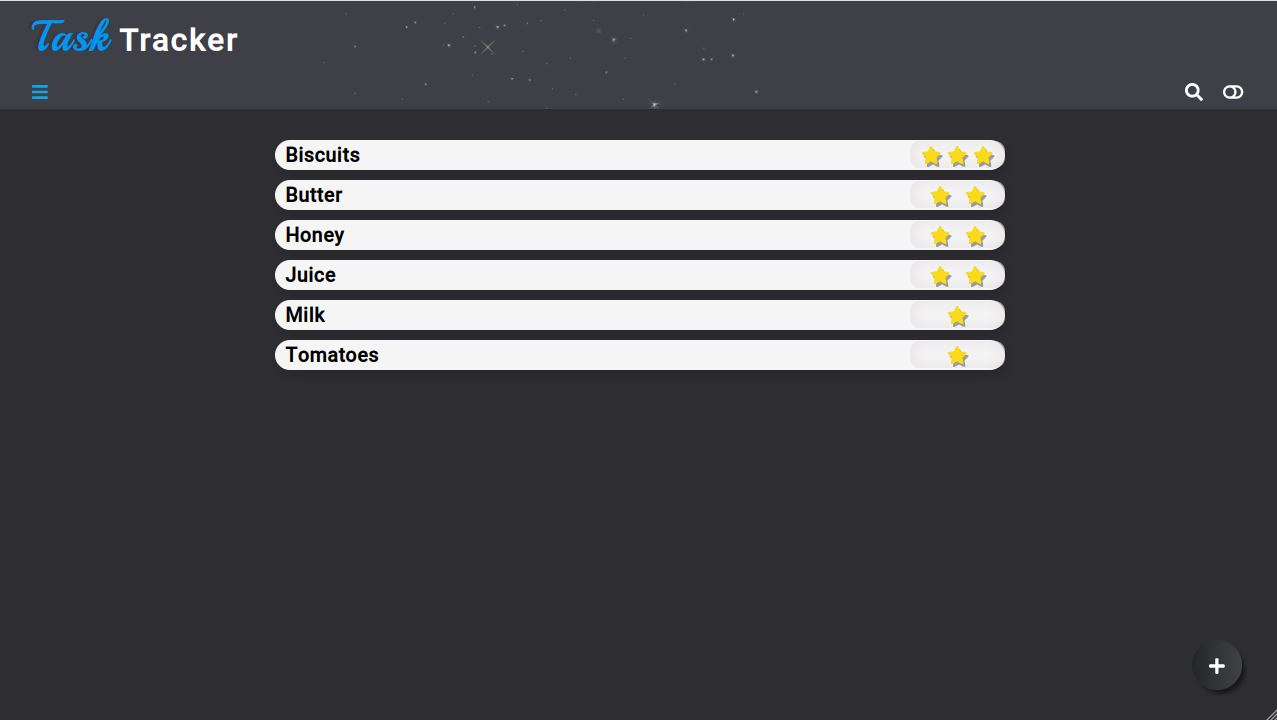
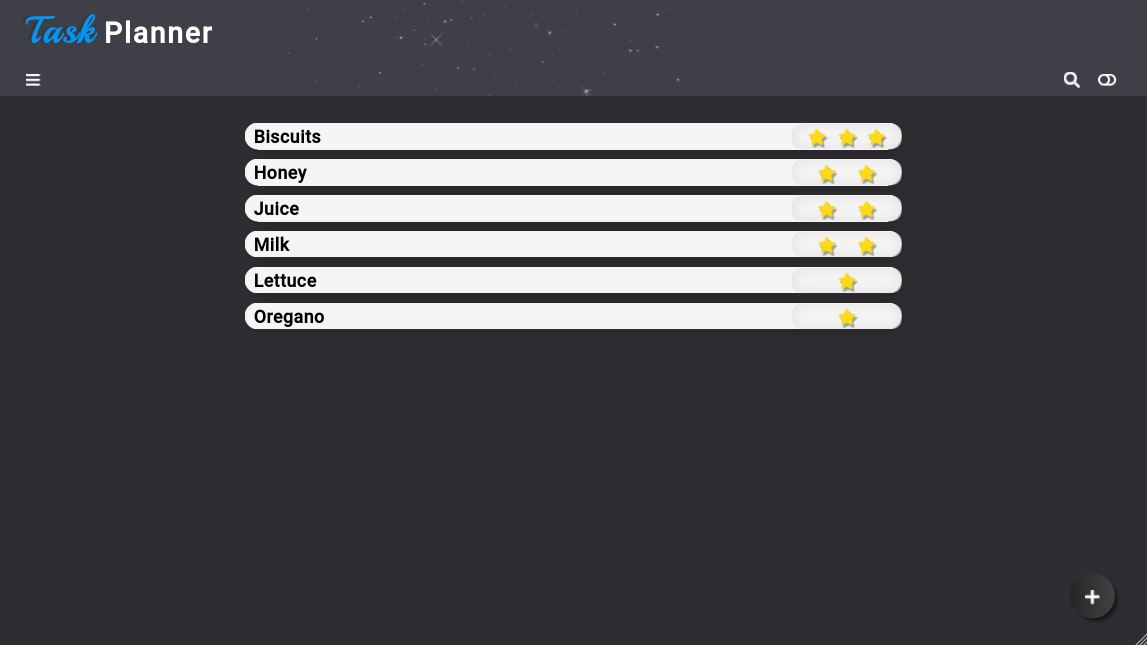
Updating app's name

diff --git a/public/index.html b/public/index.html
@@ -11,7 +11,7 @@
     />
     <link rel="apple-touch-icon" href="%PUBLIC_URL%/logo192.png" />
     <link rel="manifest" href="%PUBLIC_URL%/manifest.json" />
-    <title>Task Tracker | Track your daily tasks now!</title>
+    <title>Task Planner | Plan your daily tasks now!</title>
   </head>
   <body>
     <noscript>You need to enable JavaScript to run this app.</noscript>

diff --git a/README.md b/README.md
@@ -1,8 +1,8 @@
-# Task Tracker
+# Task Planner
 
-<img src='./public/sample.jpg' width='600px' />
+<img src='./public/sample.jpg' width='800px' />
 
-A React-based, fully responsive task tracker. It saves any data provided in localStorage, along with the selected theme, and arranges the tasks in a descending order based on priority.
+A React-based, fully responsive task tracker. It saves any data provided in localStorage, along with the selected theme, and arranges the tasks in a descending order based on priority. Lists are _deleted_ as soon as their last existing task is deleted.
 
 ## Installation
 
@@ -43,7 +43,7 @@ For a more detailed overview of the development & production dependencies, pleas
 
 ## Live Version
 
-<https://developedbygeo.github.io/Task-tracker/>
+<https://developedbygeo.github.io/Task-tracker-v2/>
 
 ## Contributing
 
